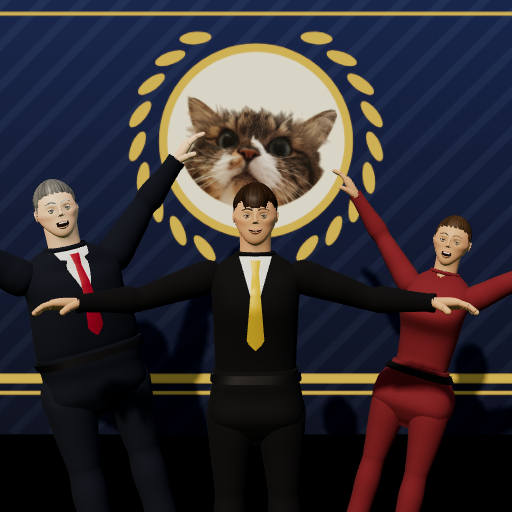
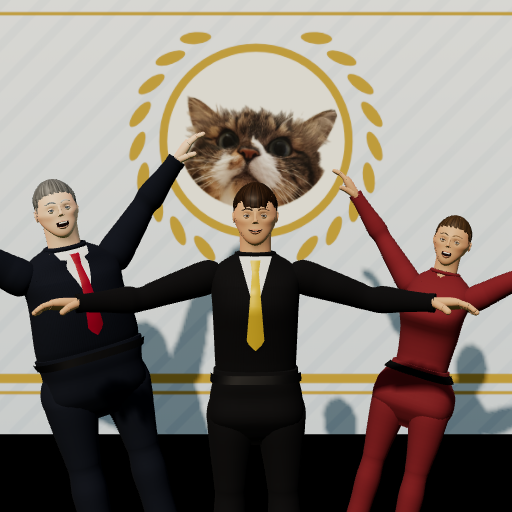
ど真ん中外交: 背景パネルを明るい色にしてスーツと見分けやすく
Claude-Session: https://claude.ai/code/session_018pgCC1dcqixuyvcT6uER39

diff --git a/games/summit-photo/index.html b/games/summit-photo/index.html
@@ -382,21 +382,21 @@ star.rotation.x = -Math.PI / 2; star.position.set(SPOT.x, 0.006, SPOT.z); star.r
 // 背景のパネル（紋章はいつもの猫）
 const catImg = new Image(); catImg.src = 'cat.png';
 function drawBackdrop(g, w, h) {
-  const gr = g.createLinearGradient(0, 0, 0, h); gr.addColorStop(0, '#1e3260'); gr.addColorStop(1, '#0f1a35');
+  const gr = g.createLinearGradient(0, 0, 0, h); gr.addColorStop(0, '#f3f6f9'); gr.addColorStop(1, '#d3deea'); // 明るい色にして、濃いスーツが背景に溶けないように
   g.fillStyle = gr; g.fillRect(0, 0, w, h);
-  g.strokeStyle = 'rgba(255,255,255,.05)'; g.lineWidth = 10;
+  g.strokeStyle = 'rgba(40,80,140,.06)'; g.lineWidth = 10;
   for (let x = -h; x < w; x += 46) { g.beginPath(); g.moveTo(x, h); g.lineTo(x + h, 0); g.stroke(); }
-  g.fillStyle = '#d6ae4c'; g.fillRect(0, h * 0.86, w, h * 0.022); g.fillRect(0, h * 0.9, w, h * 0.008);
+  g.fillStyle = '#c29a3a'; g.fillRect(0, h * 0.86, w, h * 0.022); g.fillRect(0, h * 0.9, w, h * 0.008);
   g.fillRect(0, h * 0.04, w, h * 0.008);
   // 紋章
   const cx = w / 2, cy = h * 0.33, R = h * 0.21;
   g.save();
-  g.fillStyle = '#f4ecd6'; g.beginPath(); g.arc(cx, cy, R, 0, Math.PI * 2); g.fill();
+  g.fillStyle = '#fbf6ea'; g.beginPath(); g.arc(cx, cy, R, 0, Math.PI * 2); g.fill();
   if (catImg.complete && catImg.naturalWidth) { g.beginPath(); g.arc(cx, cy, R * 0.92, 0, Math.PI * 2); g.clip(); g.drawImage(catImg, cx - R * 0.95, cy - R * 0.92, R * 1.9, R * 1.9); }
   g.restore();
-  g.strokeStyle = '#d6ae4c'; g.lineWidth = R * 0.09; g.beginPath(); g.arc(cx, cy, R, 0, Math.PI * 2); g.stroke();
+  g.strokeStyle = '#c29a3a'; g.lineWidth = R * 0.09; g.beginPath(); g.arc(cx, cy, R, 0, Math.PI * 2); g.stroke();
   // 月桂樹
-  g.fillStyle = '#d6ae4c';
+  g.fillStyle = '#c29a3a';
   for (const s of [-1, 1]) for (let i = 0; i < 9; i++) {
     const th = 0.45 + i * 0.27, r = R * 1.28; // 下から上へ、円に沿って葉を並べる
     g.save(); g.translate(cx + s * Math.sin(th) * r, cy + Math.cos(th) * r); g.rotate(Math.atan2(-Math.sin(th), s * Math.cos(th)) - s * 0.45); // 円に沿う向き＋少し外へ
@@ -405,7 +405,7 @@ function drawBackdrop(g, w, h) {
 }
 const backTex = canvasTex(1024, 512, drawBackdrop);
 catImg.onload = () => { drawBackdrop(backTex.image.getContext('2d'), 1024, 512); backTex.needsUpdate = true; };
-const backdrop = shade(new THREE.Mesh(new THREE.BoxGeometry(7.2, 3.6, 0.12), [std('#0f1a35'), std('#0f1a35'), std('#0f1a35'), std('#0f1a35'), std('#ffffff', 0.85, { map: backTex }), std('#0f1a35')]));
+const backdrop = shade(new THREE.Mesh(new THREE.BoxGeometry(7.2, 3.6, 0.12), [std('#c8d2de'), std('#c8d2de'), std('#c8d2de'), std('#c8d2de'), std('#ffffff', 0.85, { map: backTex }), std('#c8d2de')]));
 backdrop.position.set(0, 1.8, BACK_Z - 0.12); scene.add(backdrop);
 for (const s of [-1, 1]) { const leg = shade(new THREE.Mesh(new THREE.BoxGeometry(0.12, 3.7, 0.3), std('#c9a447', 0.4, { metalness: 0.6 }))); leg.position.set(s * 3.62, 1.85, BACK_Z - 0.12); scene.add(leg); }
 
